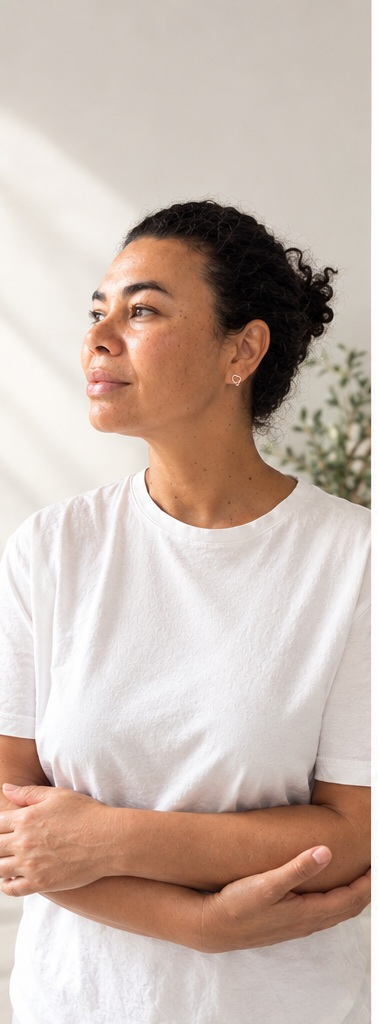
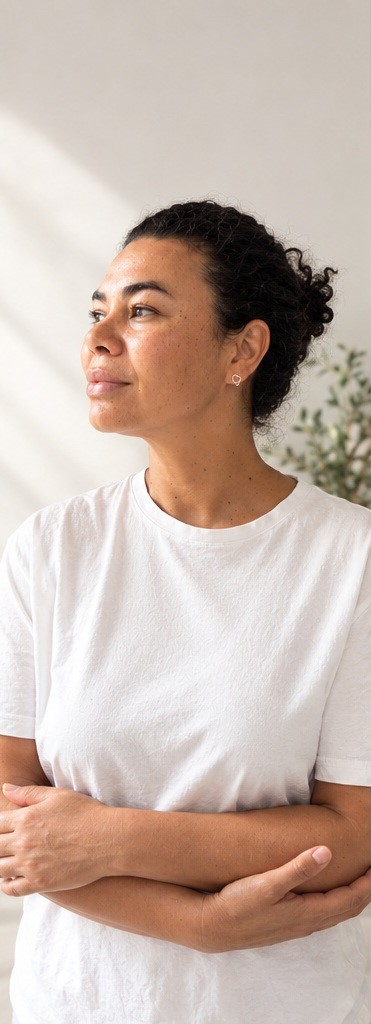
camios: - modificacion de texto. - se actualiza redes sociales.

diff --git a/index.html b/index.html
@@ -124,7 +124,7 @@
               <li>✓ Favorece el descanso y el confort muscular</li>
             </ul>
             <div class="service-card__price">
-              <span class="price">Desde 70€</span>
+              <span class="price">Desde 80€</span>
               <span class="duration">· 60 min</span>
             </div>
             <a href="#contacto" class="btn btn--primary btn--sm">Reservar</a>
@@ -143,7 +143,7 @@
               <li>✓ Sensación de ligereza y equilibrio</li>
             </ul>
             <div class="service-card__price">
-              <span class="price">Desde 70€</span>
+              <span class="price">Desde 80€</span>
               <span class="duration">· 60 min</span>
             </div>
             <a href="#contacto" class="btn btn--outline btn--sm">Reservar</a>
@@ -164,7 +164,7 @@
               <li>✓ Mejora el rendimiento general</li>
             </ul>
             <div class="service-card__price">
-              <span class="price">Desde 70€</span>
+              <span class="price">Desde 80€</span>
               <span class="duration">· 60 min</span>
             </div>
             <a href="#contacto" class="btn btn--outline btn--sm">Reservar</a>
@@ -187,7 +187,7 @@
               </li>
             </ul>
             <div class="service-card__price">
-              <span class="price">Desde 70€</span>
+              <span class="price">Desde 80€</span>
               <span class="duration">· 60 min</span>
             </div>
             <a href="#contacto" class="btn btn--outline btn--sm">Reservar</a>
@@ -231,8 +231,8 @@
           <h2 class="section__title">Hola, soy Sandra</h2>
           <p>
             Soy quiromasajista certificada y mi propósito es ayudarte a
-            recuperar tu bienestar físico, ofreciéndote un espacio de
-            cuidado exclusivo y a tu medida.
+            recuperar tu bienestar físico, ofreciéndote un espacio de cuidado
+            exclusivo y a tu medida.
           </p>
           <p>
             Creo firmemente que el masaje no es un lujo, es una necesidad. El
@@ -309,7 +309,7 @@
               <div class="testimonial__avatar">M</div>
               <div>
                 <strong>María García</strong>
-                <small>Madrid · Quiromasaje Terapéutico</small>
+                <small>Madrid · Quiromasaje Descontracturante</small>
               </div>
             </div>
           </div>
@@ -341,13 +341,12 @@
               <div class="testimonial__avatar">A</div>
               <div>
                 <strong>Ana Martínez</strong>
-                <small>Madrid · Ritual de Bienestar</small>
+                <small>Madrid · Masaje Relajante</small>
               </div>
             </div>
           </div>
         </div>
         <div class="testimonials__cta">
-          <p>¿Lista para sentirte así?</p>
           <a href="#contacto" class="btn btn--primary"
             >Reservar mi primera sesión</a
           >
@@ -645,7 +644,7 @@
           <h4>Sígueme</h4>
           <div class="social__links">
             <a
-              href="https://instagram.com/sandraquiromasajista"
+              href="https://www.instagram.com/sandrawong_quiromasaje"
               target="_blank"
               rel="noopener"
               aria-label="Instagram"
@@ -662,7 +661,7 @@
               </svg>
             </a>
             <a
-              href="https://facebook.com/sandraquiromasajista"
+              href="https://www.facebook.com/share/14iU8zLcMdw/?mibextid=wwXIfr"
               target="_blank"
               rel="noopener"
               aria-label="Facebook"
